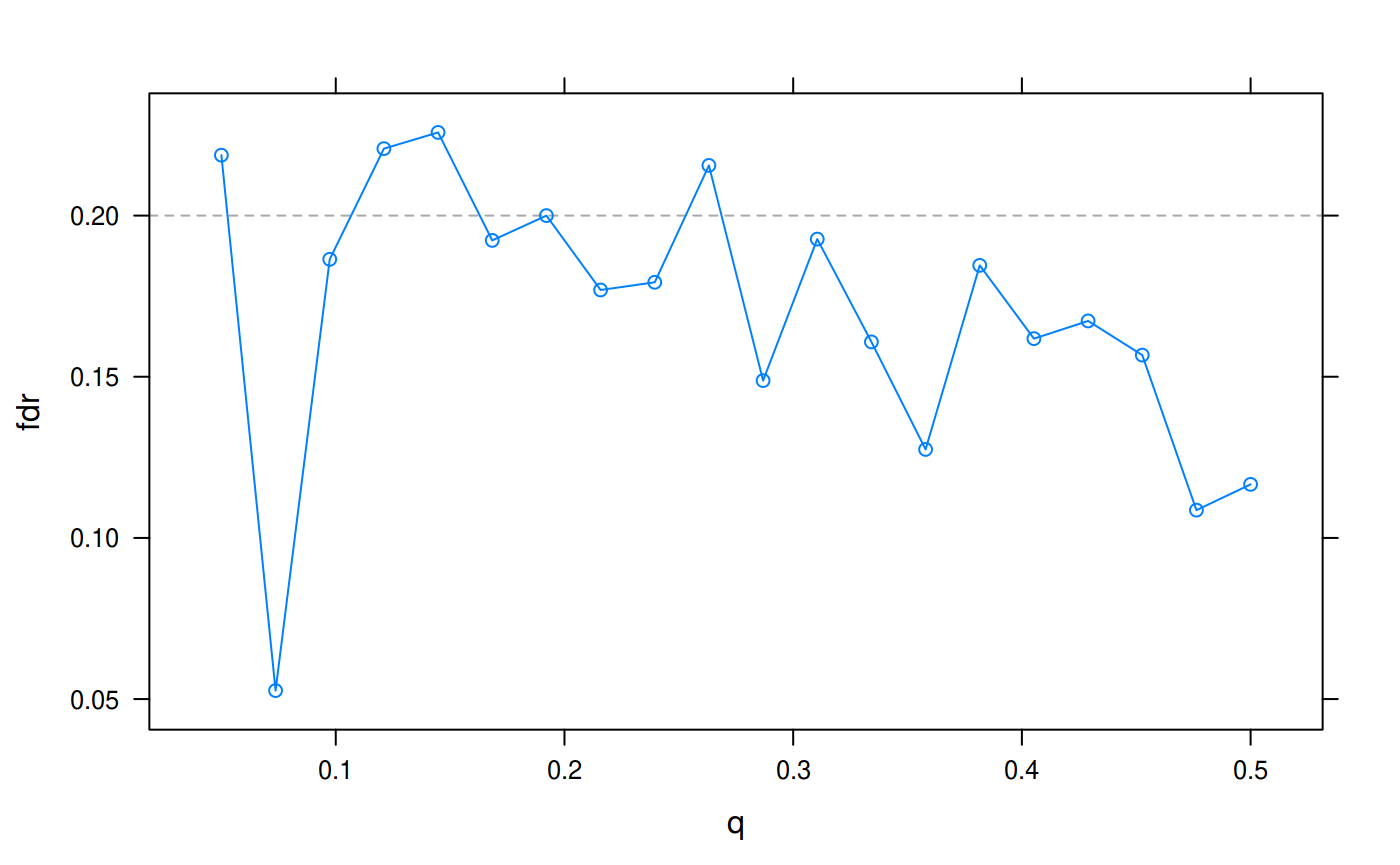
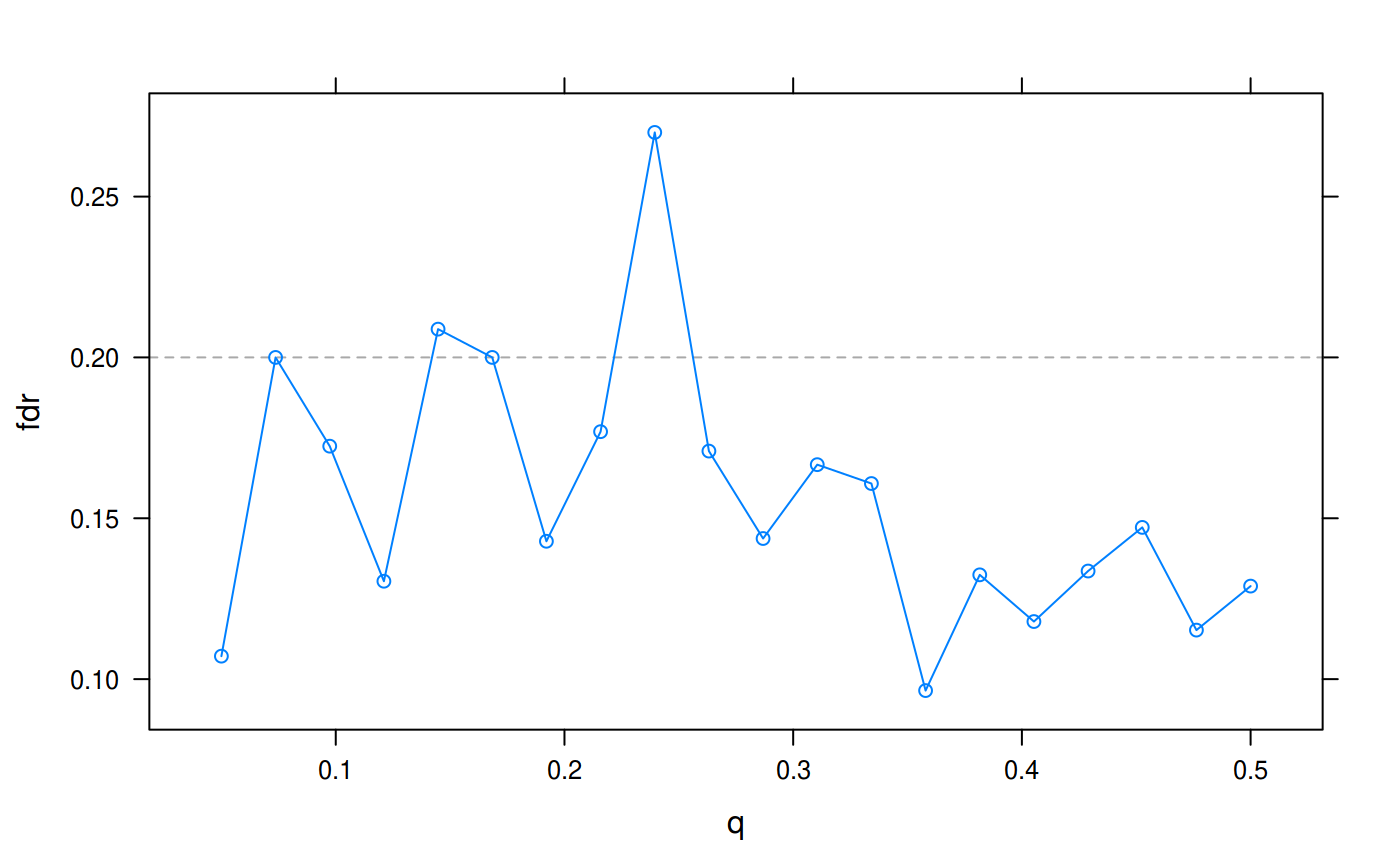
Update pkgdown site

diff --git a/docs/articles/slope.html b/docs/articles/slope.html
@@ -92,9 +92,9 @@
 
     
     
-<div id="sorted-l-one-penalized-estimation-slope" class="section level1">
-<h1 class="hasAnchor">
-<a href="#sorted-l-one-penalized-estimation-slope" class="anchor"></a>Sorted L-One Penalized Estimation (SLOPE)</h1>
+<div id="sorted-l-one-penalized-estimation-slope" class="section level2">
+<h2 class="hasAnchor">
+<a href="#sorted-l-one-penalized-estimation-slope" class="anchor"></a>Sorted L-One Penalized Estimation (SLOPE)</h2>
 <p>The SLOPE penalty attempts to control the false discovery rate (FDR) of non-zero coefficients (feature weights) in the model. It is in many ways analogous to the Benjamini–Hochberg procedure for multiple comparisons.</p>
 <p>Let’s set up a simple experiment to see how SLOPE controls the FDR.</p>
 <div class="sourceCode" id="cb1"><pre class="sourceCode r"><code class="sourceCode r"><a class="sourceLine" id="cb1-1" title="1"><span class="kw"><a href="https://www.rdocumentation.org/packages/base/topics/library">library</a></span>(golem)</a>
@@ -103,35 +103,36 @@
 <a class="sourceLine" id="cb1-4" title="4"><span class="co"># proportion of real signals</span></a>
 <a class="sourceLine" id="cb1-5" title="5">q &lt;-<span class="st"> </span><span class="kw"><a href="https://www.rdocumentation.org/packages/base/topics/seq">seq</a></span>(<span class="fl">0.05</span>, <span class="fl">0.5</span>, <span class="dt">length.out =</span> <span class="dv">20</span>)</a>
 <a class="sourceLine" id="cb1-6" title="6">fdr &lt;-<span class="st"> </span><span class="kw"><a href="https://www.rdocumentation.org/packages/base/topics/double">double</a></span>(<span class="kw"><a href="https://www.rdocumentation.org/packages/base/topics/length">length</a></span>(q))</a>
-<a class="sourceLine" id="cb1-7" title="7"></a>
-<a class="sourceLine" id="cb1-8" title="8"><span class="cf">for</span> (i <span class="cf">in</span> <span class="kw"><a href="https://www.rdocumentation.org/packages/base/topics/seq">seq_along</a></span>(q)) {</a>
-<a class="sourceLine" id="cb1-9" title="9">  n &lt;-<span class="st"> </span><span class="dv">1000</span></a>
-<a class="sourceLine" id="cb1-10" title="10">  p &lt;-<span class="st"> </span>n<span class="op">/</span><span class="dv">2</span></a>
-<a class="sourceLine" id="cb1-11" title="11">  k &lt;-<span class="st"> </span><span class="kw"><a href="https://www.rdocumentation.org/packages/base/topics/Round">floor</a></span>(q[i]<span class="op">*</span>p)</a>
-<a class="sourceLine" id="cb1-12" title="12">  sigma &lt;-<span class="st"> </span><span class="dv">1</span></a>
-<a class="sourceLine" id="cb1-13" title="13">  problem &lt;-<span class="st"> </span>golem<span class="op">:::</span><span class="kw">random_problem</span>(n, p, k, <span class="dt">sigma =</span> sigma)</a>
-<a class="sourceLine" id="cb1-14" title="14">  </a>
-<a class="sourceLine" id="cb1-15" title="15">  X &lt;-<span class="st"> </span>problem<span class="op">$</span>X</a>
-<a class="sourceLine" id="cb1-16" title="16">  y &lt;-<span class="st"> </span>problem<span class="op">$</span>y</a>
-<a class="sourceLine" id="cb1-17" title="17">  signals &lt;-<span class="st"> </span>problem<span class="op">$</span>nonzero</a>
-<a class="sourceLine" id="cb1-18" title="18">  </a>
-<a class="sourceLine" id="cb1-19" title="19">  fit &lt;-<span class="st"> </span><span class="kw"><a href="../reference/golem.html">golem</a></span>(X, y, <span class="dt">penalty =</span> <span class="kw"><a href="../reference/slope.html">slope</a></span>(<span class="dt">lambda =</span> <span class="st">"bhq"</span>, <span class="dt">sigma =</span> <span class="dv">1</span>),</a>
-<a class="sourceLine" id="cb1-20" title="20">               <span class="dt">intercept =</span> <span class="ot">FALSE</span>)</a>
-<a class="sourceLine" id="cb1-21" title="21">  </a>
-<a class="sourceLine" id="cb1-22" title="22">  selected_golem &lt;-<span class="st"> </span><span class="kw"><a href="https://www.rdocumentation.org/packages/base/topics/which">which</a></span>(<span class="kw"><a href="https://www.rdocumentation.org/packages/stats/topics/coef">coef</a></span>(fit) <span class="op">&gt;</span><span class="st"> </span><span class="dv">0</span>)</a>
-<a class="sourceLine" id="cb1-23" title="23">  <span class="co"># selected_slope &lt;- slope_fit$selected</span></a>
-<a class="sourceLine" id="cb1-24" title="24">  <span class="co">#length(selected_golem)/length(selected_golem)</span></a>
-<a class="sourceLine" id="cb1-25" title="25">  V &lt;-<span class="st"> </span><span class="kw"><a href="https://www.rdocumentation.org/packages/base/topics/length">length</a></span>(<span class="kw"><a href="https://www.rdocumentation.org/packages/base/topics/sets">setdiff</a></span>(selected_golem, signals))</a>
-<a class="sourceLine" id="cb1-26" title="26">  R &lt;-<span class="st"> </span><span class="kw"><a href="https://www.rdocumentation.org/packages/base/topics/length">length</a></span>(selected_golem)</a>
-<a class="sourceLine" id="cb1-27" title="27">  fdr[i] &lt;-<span class="st"> </span>V<span class="op">/</span>R</a>
-<a class="sourceLine" id="cb1-28" title="28">}</a>
-<a class="sourceLine" id="cb1-29" title="29"></a>
-<a class="sourceLine" id="cb1-30" title="30"><span class="kw"><a href="https://www.rdocumentation.org/packages/base/topics/library">library</a></span>(lattice)</a>
-<a class="sourceLine" id="cb1-31" title="31"><span class="kw"><a href="https://www.rdocumentation.org/packages/lattice/topics/xyplot">xyplot</a></span>(fdr <span class="op">~</span><span class="st"> </span>q, <span class="dt">type =</span> <span class="st">"b"</span>,</a>
-<a class="sourceLine" id="cb1-32" title="32">       <span class="dt">panel =</span> <span class="cf">function</span>(...) {</a>
-<a class="sourceLine" id="cb1-33" title="33">         <span class="kw"><a href="https://www.rdocumentation.org/packages/lattice/topics/panel.functions">panel.refline</a></span>(<span class="dt">h =</span> <span class="fl">0.2</span>, <span class="dt">lty =</span> <span class="dv">2</span>, <span class="dt">col =</span> <span class="st">"dark grey"</span>)</a>
-<a class="sourceLine" id="cb1-34" title="34">         <span class="kw"><a href="https://www.rdocumentation.org/packages/lattice/topics/panel.xyplot">panel.xyplot</a></span>(...)</a>
-<a class="sourceLine" id="cb1-35" title="35">       })</a></code></pre></div>
+<a class="sourceLine" id="cb1-7" title="7"><span class="kw"><a href="https://www.rdocumentation.org/packages/base/topics/Random">set.seed</a></span>(<span class="dv">1</span>)</a>
+<a class="sourceLine" id="cb1-8" title="8"></a>
+<a class="sourceLine" id="cb1-9" title="9"><span class="cf">for</span> (i <span class="cf">in</span> <span class="kw"><a href="https://www.rdocumentation.org/packages/base/topics/seq">seq_along</a></span>(q)) {</a>
+<a class="sourceLine" id="cb1-10" title="10">  n &lt;-<span class="st"> </span><span class="dv">1000</span></a>
+<a class="sourceLine" id="cb1-11" title="11">  p &lt;-<span class="st"> </span>n<span class="op">/</span><span class="dv">2</span></a>
+<a class="sourceLine" id="cb1-12" title="12">  k &lt;-<span class="st"> </span><span class="kw"><a href="https://www.rdocumentation.org/packages/base/topics/Round">floor</a></span>(q[i]<span class="op">*</span>p)</a>
+<a class="sourceLine" id="cb1-13" title="13">  sigma &lt;-<span class="st"> </span><span class="dv">1</span></a>
+<a class="sourceLine" id="cb1-14" title="14">  problem &lt;-<span class="st"> </span>golem<span class="op">:::</span><span class="kw">random_problem</span>(n, p, k, <span class="dt">sigma =</span> sigma)</a>
+<a class="sourceLine" id="cb1-15" title="15">  </a>
+<a class="sourceLine" id="cb1-16" title="16">  X &lt;-<span class="st"> </span>problem<span class="op">$</span>X</a>
+<a class="sourceLine" id="cb1-17" title="17">  y &lt;-<span class="st"> </span>problem<span class="op">$</span>y</a>
+<a class="sourceLine" id="cb1-18" title="18">  signals &lt;-<span class="st"> </span>problem<span class="op">$</span>nonzero</a>
+<a class="sourceLine" id="cb1-19" title="19">  </a>
+<a class="sourceLine" id="cb1-20" title="20">  fit &lt;-<span class="st"> </span><span class="kw"><a href="../reference/golem.html">golem</a></span>(X, y, <span class="dt">penalty =</span> <span class="kw"><a href="../reference/slope.html">slope</a></span>(<span class="dt">lambda =</span> <span class="st">"bhq"</span>, <span class="dt">sigma =</span> <span class="dv">1</span>),</a>
+<a class="sourceLine" id="cb1-21" title="21">               <span class="dt">intercept =</span> <span class="ot">FALSE</span>)</a>
+<a class="sourceLine" id="cb1-22" title="22">  </a>
+<a class="sourceLine" id="cb1-23" title="23">  selected_golem &lt;-<span class="st"> </span><span class="kw"><a href="https://www.rdocumentation.org/packages/base/topics/which">which</a></span>(<span class="kw"><a href="https://www.rdocumentation.org/packages/stats/topics/coef">coef</a></span>(fit) <span class="op">&gt;</span><span class="st"> </span><span class="dv">0</span>)</a>
+<a class="sourceLine" id="cb1-24" title="24">  <span class="co"># selected_slope &lt;- slope_fit$selected</span></a>
+<a class="sourceLine" id="cb1-25" title="25">  <span class="co">#length(selected_golem)/length(selected_golem)</span></a>
+<a class="sourceLine" id="cb1-26" title="26">  V &lt;-<span class="st"> </span><span class="kw"><a href="https://www.rdocumentation.org/packages/base/topics/length">length</a></span>(<span class="kw"><a href="https://www.rdocumentation.org/packages/base/topics/sets">setdiff</a></span>(selected_golem, signals))</a>
+<a class="sourceLine" id="cb1-27" title="27">  R &lt;-<span class="st"> </span><span class="kw"><a href="https://www.rdocumentation.org/packages/base/topics/length">length</a></span>(selected_golem)</a>
+<a class="sourceLine" id="cb1-28" title="28">  fdr[i] &lt;-<span class="st"> </span>V<span class="op">/</span>R</a>
+<a class="sourceLine" id="cb1-29" title="29">}</a>
+<a class="sourceLine" id="cb1-30" title="30"></a>
+<a class="sourceLine" id="cb1-31" title="31"><span class="kw"><a href="https://www.rdocumentation.org/packages/base/topics/library">library</a></span>(lattice)</a>
+<a class="sourceLine" id="cb1-32" title="32"><span class="kw"><a href="https://www.rdocumentation.org/packages/lattice/topics/xyplot">xyplot</a></span>(fdr <span class="op">~</span><span class="st"> </span>q, <span class="dt">type =</span> <span class="st">"b"</span>,</a>
+<a class="sourceLine" id="cb1-33" title="33">       <span class="dt">panel =</span> <span class="cf">function</span>(...) {</a>
+<a class="sourceLine" id="cb1-34" title="34">         <span class="kw"><a href="https://www.rdocumentation.org/packages/lattice/topics/panel.functions">panel.refline</a></span>(<span class="dt">h =</span> <span class="fl">0.2</span>, <span class="dt">lty =</span> <span class="dv">2</span>, <span class="dt">col =</span> <span class="st">"dark grey"</span>)</a>
+<a class="sourceLine" id="cb1-35" title="35">         <span class="kw"><a href="https://www.rdocumentation.org/packages/lattice/topics/panel.xyplot">panel.xyplot</a></span>(...)</a>
+<a class="sourceLine" id="cb1-36" title="36">       })</a></code></pre></div>
 <div class="figure">
 <img src="slope_files/figure-html/unnamed-chunk-1-1.png" alt="Control of false discovery rate using SLOPE." width="700"><p class="caption">
 Control of false discovery rate using SLOPE.

diff --git a/docs/reference/golem.html b/docs/reference/golem.html
@@ -6,7 +6,7 @@
 <meta http-equiv="X-UA-Compatible" content="IE=edge">
 <meta name="viewport" content="width=device-width, initial-scale=1.0">
 
-<title>Employ a Golem: a Regularized Generalized Linear Model — golem • golem</title>
+<title>Regularized Generalized Linear Models — golem • golem</title>
 
 <!-- jquery -->
 <script src="https://cdnjs.cloudflare.com/ajax/libs/jquery/3.3.1/jquery.min.js" integrity="sha256-FgpCb/KJQlLNfOu91ta32o/NMZxltwRo8QtmkMRdAu8=" crossorigin="anonymous"></script>
@@ -30,7 +30,7 @@
 
 
 
-<meta property="og:title" content="Employ a Golem: a Regularized Generalized Linear Model — golem" />
+<meta property="og:title" content="Regularized Generalized Linear Models — golem" />
 
 <meta property="og:description" content="This functions fits a generalized linear model (GLM) using efficient
 optimization routines suitable to big data problems." />
@@ -115,7 +115,7 @@ optimization routines suitable to big data problems." />
 <div class="row">
   <div class="col-md-9 contents">
     <div class="page-header">
-    <h1>Employ a Golem: a Regularized Generalized Linear Model</h1>
+    <h1>Regularized Generalized Linear Models</h1>
     <small class="dont-index">Source: <a href='https://github.com/jolars/golem/blob/master/R/golem.R'><code>R/golem.R</code></a></small>
     <div class="hidden name"><code>golem.Rd</code></div>
     </div>
@@ -127,9 +127,10 @@ optimization routines suitable to big data problems.</p>
     
     </div>
 
-    <pre class="usage"><span class='fu'>golem</span>(<span class='no'>x</span>, <span class='no'>y</span>, <span class='kw'>family</span> <span class='kw'>=</span> <span class='fu'><a href='https://www.rdocumentation.org/packages/base/topics/c'>c</a></span>(<span class='st'>"gaussian"</span>, <span class='st'>"binomial"</span>), <span class='kw'>penalty</span> <span class='kw'>=</span> <span class='fu'><a href='slope.html'>slope</a></span>(),
-  <span class='kw'>solver</span> <span class='kw'>=</span> <span class='fu'><a href='fista.html'>fista</a></span>(), <span class='kw'>intercept</span> <span class='kw'>=</span> <span class='fl'>TRUE</span>, <span class='kw'>standardize</span> <span class='kw'>=</span> <span class='fu'><a href='https://www.rdocumentation.org/packages/base/topics/c'>c</a></span>(<span class='st'>"features"</span>,
-  <span class='st'>"response"</span>, <span class='st'>"both"</span>, <span class='st'>"none"</span>), <span class='no'>...</span>)</pre>
+    <pre class="usage"><span class='fu'>golem</span>(<span class='no'>x</span>, <span class='no'>y</span>, <span class='kw'>family</span> <span class='kw'>=</span> <span class='fu'><a href='https://www.rdocumentation.org/packages/base/topics/c'>c</a></span>(<span class='st'>"gaussian"</span>, <span class='st'>"binomial"</span>),
+  <span class='kw'>penalty</span> <span class='kw'>=</span> <span class='kw pkg'>golem</span><span class='kw ns'>::</span><span class='fu'><a href='https://www.rdocumentation.org/packages/golem/topics/slope'>slope</a></span>(), <span class='kw'>solver</span> <span class='kw'>=</span> <span class='kw pkg'>golem</span><span class='kw ns'>::</span><span class='fu'><a href='https://www.rdocumentation.org/packages/golem/topics/fista'>fista</a></span>(),
+  <span class='kw'>intercept</span> <span class='kw'>=</span> <span class='fl'>TRUE</span>, <span class='kw'>standardize</span> <span class='kw'>=</span> <span class='fu'><a href='https://www.rdocumentation.org/packages/base/topics/c'>c</a></span>(<span class='st'>"features"</span>, <span class='st'>"response"</span>, <span class='st'>"both"</span>,
+  <span class='st'>"none"</span>), <span class='no'>...</span>)</pre>
     
     <h2 class="hasAnchor" id="arguments"><a class="anchor" href="#arguments"></a>Arguments</h2>
     <table class="ref-arguments">
@@ -144,7 +145,7 @@ optimization routines suitable to big data problems.</p>
     </tr>
     <tr>
       <th>family</th>
-      <td><p>reponse type, one of <code>'gaussian'</code>, <code>'binomial'</code>,
+      <td><p>response type, one of <code>'gaussian'</code>, <code>'binomial'</code>,
 <code>'multinomial'</code>, or <code>'mgaussian'</code>. See <strong>Supported families</strong> for details.</p></td>
     </tr>
     <tr>
@@ -185,7 +186,7 @@ for binomial</p></td>
 
     <p>The result of fitting</p>
     
-    <h2 class="hasAnchor" id="regularization-penalties"><a class="anchor" href="#regularization-penalties"></a>Regularization penalties</h2>
+    <h2 class="hasAnchor" id="regularization-penalties"><a class="anchor" href="#regularization-penalties"></a>Regularization Penalties</h2>
 
     
     <p>There is a multitude of ways to penalize the models created by
@@ -198,7 +199,14 @@ the respective C++ creator functions, where the magic happens.</p>
 <p>Do <em>not</em> attempt to create your own penalty functions using this interface.
 Such attempts will most likely be caught in assertions before anything bad
 happens, but all bets are off if you are able to sneak them through
-the various cheks.</p>
+the various checks.</p>
+    
+    <h2 class="hasAnchor" id="solvers"><a class="anchor" href="#solvers"></a>Solvers</h2>
+
+    
+    <p>There is currently a single solver available for golem::golem, namely</p><ul>
+<li><p><code><a href='fista.html'>golem::fista()</a></code></p></li>
+</ul>
     
 
     <h2 class="hasAnchor" id="examples"><a class="anchor" href="#examples"></a>Examples</h2>
@@ -214,7 +222,9 @@ the various cheks.</p>
       
       <li><a href="#value">Value</a></li>
 
-      <li><a href="#regularization-penalties">Regularization penalties</a></li>
+      <li><a href="#regularization-penalties">Regularization Penalties</a></li>
+
+      <li><a href="#solvers">Solvers</a></li>
       
       <li><a href="#examples">Examples</a></li>
     </ul>

diff --git a/docs/reference/golem-package.html b/docs/reference/golem-package.html
@@ -6,7 +6,7 @@
 <meta http-equiv="X-UA-Compatible" content="IE=edge">
 <meta name="viewport" content="width=device-width, initial-scale=1.0">
 
-<title>Function reference • golem</title>
+<title>Golem: Generalized Linear Models for Big Data — golem-package • golem</title>
 
 <!-- jquery -->
 <script src="https://cdnjs.cloudflare.com/ajax/libs/jquery/3.3.1/jquery.min.js" integrity="sha256-FgpCb/KJQlLNfOu91ta32o/NMZxltwRo8QtmkMRdAu8=" crossorigin="anonymous"></script>
@@ -30,7 +30,11 @@
 
 
 
-<meta property="og:title" content="Function reference" />
+<meta property="og:title" content="Golem: Generalized Linear Models for Big Data — golem-package" />
+
+<meta property="og:description" content="Optimization routines for fitting generalized linear models to
+big data." />
+<meta name="twitter:card" content="summary" />
 
 
 
@@ -47,7 +51,7 @@
   </head>
 
   <body>
-    <div class="container template-reference-index">
+    <div class="container template-reference-topic">
       <header>
       <div class="navbar navbar-default navbar-fixed-top" role="navigation">
   <div class="container">
@@ -109,66 +113,30 @@
       </header>
 
 <div class="row">
-  <div class="contents col-md-9">
+  <div class="col-md-9 contents">
     <div class="page-header">
-      <h1>Reference</h1>
+    <h1>Golem: Generalized Linear Models for Big Data</h1>
+    <small class="dont-index">Source: <a href='https://github.com/jolars/golem/blob/master/R/golem-package.R'><code>R/golem-package.R</code></a></small>
+    <div class="hidden name"><code>golem-package.Rd</code></div>
     </div>
 
-    <table class="ref-index">
+    <div class="ref-description">
+    
+    <p>Optimization routines for fitting generalized linear models to
+big data.</p>
+    
+    </div>
 
-    <colgroup>
-      
-      <col class="alias" />
-      <col class="title" />
-    </colgroup>
+        
 
-    <tbody>
-      <tr>
-        <th colspan="2">
-          <h2 id="section-all-functions" class="hasAnchor"><a href="#section-all-functions" class="anchor"></a>All functions</h2>
-          <p class="section-desc"></p>
-        </th>
-      </tr>
-      <tr>
-        
-        <td>
-          <p><code><a href="fista.html">fista()</a></code> </p>
-        </td>
-        <td><p>FISTA solver</p></td>
-      </tr><tr>
-        
-        <td>
-          <p><code><a href="golem-package.html">golem-package</a></code> </p>
-        </td>
-        <td><p>Golem: Generalized Linear Models for Big Data</p></td>
-      </tr><tr>
-        
-        <td>
-          <p><code><a href="golem.html">golem()</a></code> </p>
-        </td>
-        <td><p>Regularized Generalized Linear Models</p></td>
-      </tr><tr>
-        
-        <td>
-          <p><code><a href="predict.Golem.html">predict(<i>&lt;Golem&gt;</i>)</a></code> <code><a href="predict.Golem.html">predict(<i>&lt;GolemGaussian&gt;</i>)</a></code> <code><a href="predict.Golem.html">predict(<i>&lt;GolemBinomial&gt;</i>)</a></code> </p>
-        </td>
-        <td><p>Make Predictions from Golem Models</p></td>
-      </tr><tr>
-        
-        <td>
-          <p><code><a href="slope.html">slope()</a></code> </p>
-        </td>
-        <td><p>Sorted L-One Penalized Estimation (SLOPE)</p></td>
-      </tr>
-    </tbody>
-    </table>
   </div>
-
   <div class="col-md-3 hidden-xs hidden-sm" id="sidebar">
     <h2>Contents</h2>
     <ul class="nav nav-pills nav-stacked">
-      <li><a href="#section-all-functions">All functions</a></li>
-    </ul>
+                </ul>
+
+    <h2>Author</h2>
+    <p>Johan Larsson</p>
   </div>
 </div>
 

diff --git a/docs/index.html b/docs/index.html
@@ -89,11 +89,11 @@
 <div class="page-header"><h1 class="hasAnchor">
 <a href="#golem" class="anchor"></a>golem</h1></div>
 
-<p>Fast implementations of glms for big data.</p>
+<p>Fast glms for big data.</p>
 <div id="code-of-conduct" class="section level2">
 <h2 class="hasAnchor">
 <a href="#code-of-conduct" class="anchor"></a>Code of conduct</h2>
-<p>Please note that the ‘golem’ project is released with a <a href="CODE_OF_CONDUCT.html">Contributor Code of Conduct</a>. By contributing to this project, you agree to abide by its terms.</p>
+<p>Please note that <strong>golem</strong> is released with a <a href="CODE_OF_CONDUCT.html">Contributor Code of Conduct</a>. By contributing to this project, you agree to abide by its terms.</p>
 </div>
 </div>
   </div>
